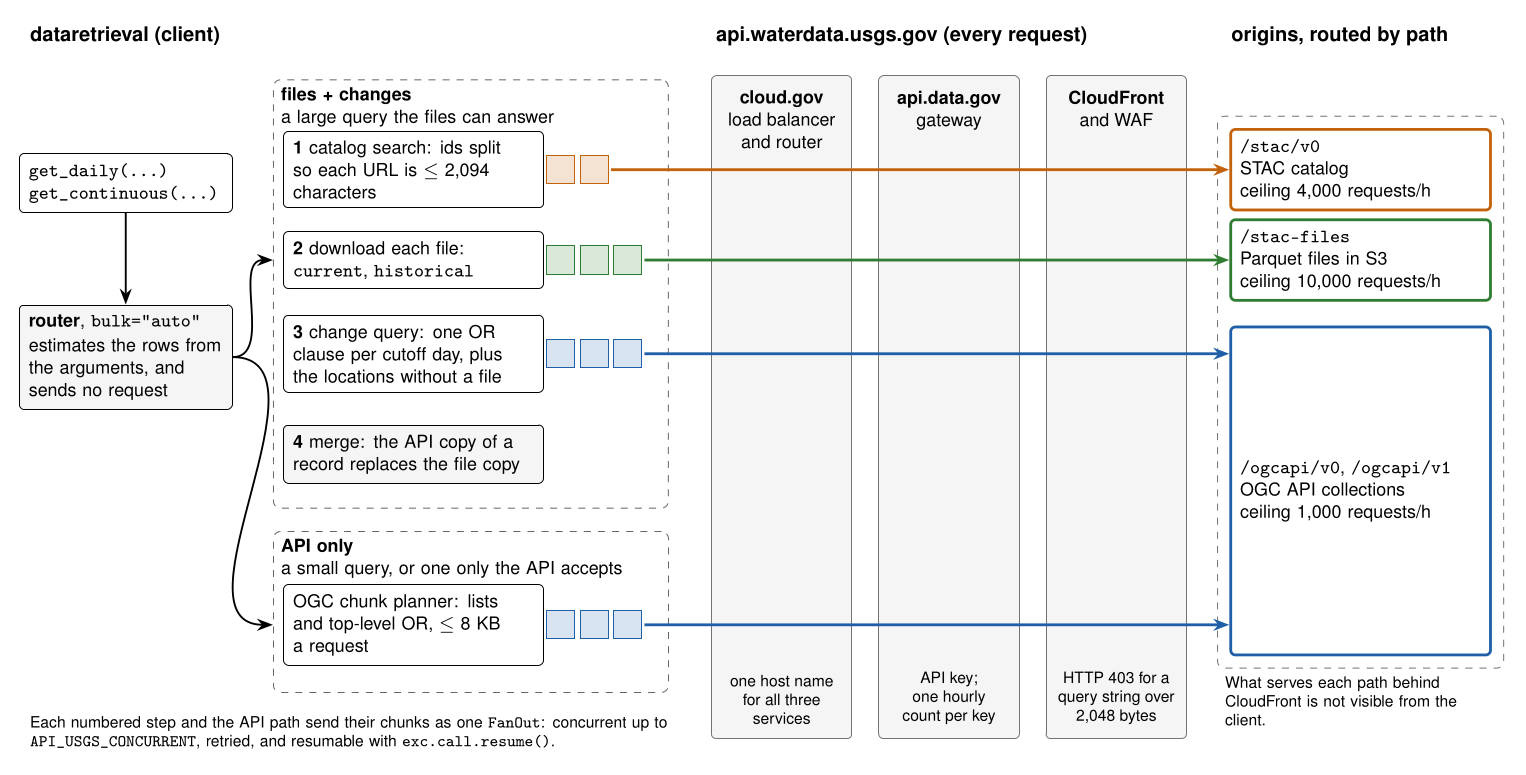
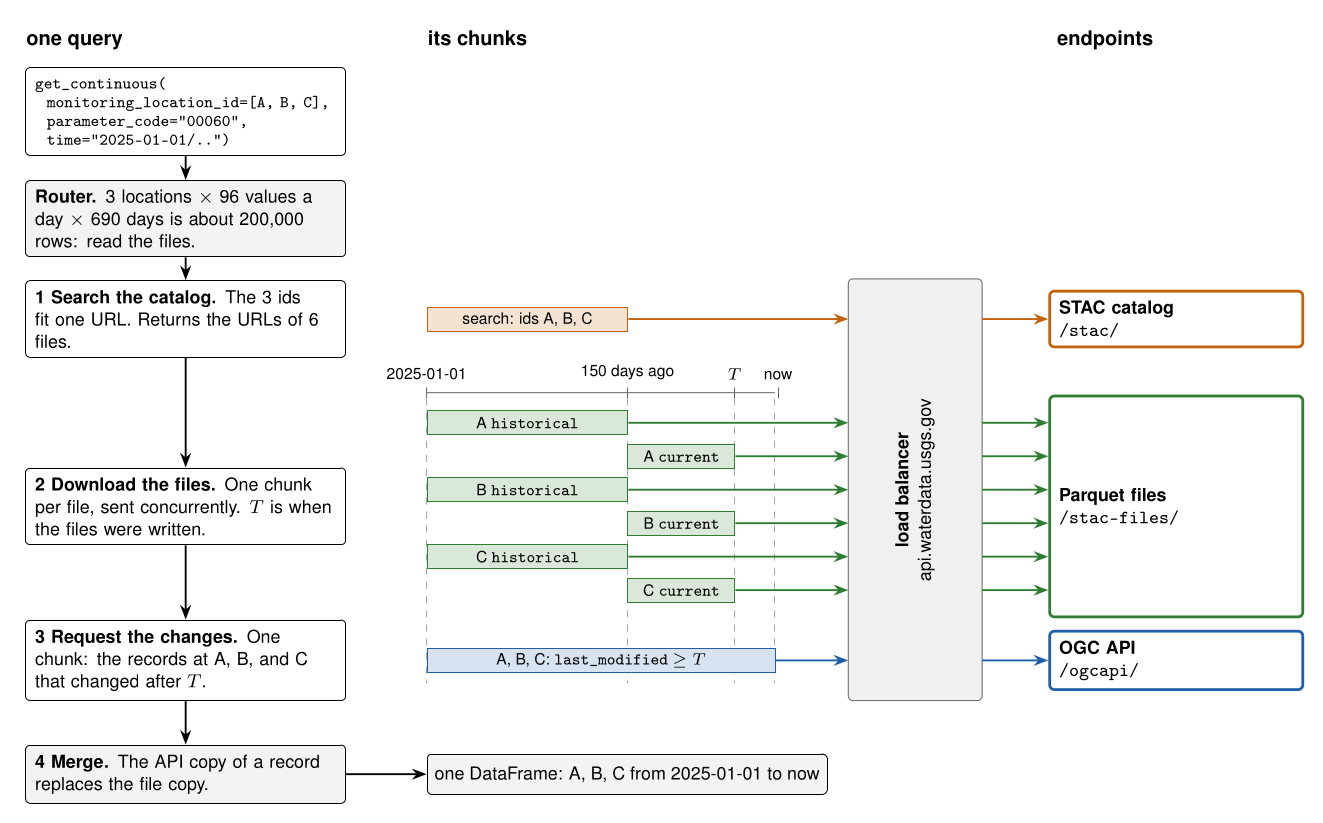
Redraw the figure around one example query

diff --git a/cloud-optimized-architecture.tex b/cloud-optimized-architecture.tex
@@ -1,11 +1,10 @@
-% The cloud-optimized architecture of PR #476: how get_daily and
-% get_continuous divide a query into chunks and route each chunk.
-% The edge hops are what the response headers showed on 2026-11-23.
+% The cloud-optimized architecture of PR #476, for one example query:
+% how get_continuous divides the query into chunks and where each chunk goes.
 \documentclass[tikz,border=8pt]{standalone}
 \usepackage[T1]{fontenc}
 \usepackage[scaled]{helvet}
 \renewcommand{\familydefault}{\sfdefault}
-\usetikzlibrary{arrows.meta,backgrounds,calc,fit}
+\usetikzlibrary{arrows.meta,backgrounds}
 
 \definecolor{api}{HTML}{1F5FA8}
 \definecolor{cat}{HTML}{C2620A}
@@ -16,112 +15,101 @@
 \exhyphenpenalty=10000
 \begin{tikzpicture}[
   font=\sffamily\footnotesize,
-  >={Stealth[length=2.4mm]},
-  box/.style={draw, rounded corners=2pt, align=left, fill=white,
-    inner sep=4pt, text width=#1},
-  box/.default=3.6cm,
-  tile/.style={draw=#1, fill=#1!18, minimum width=4.2mm,
-    minimum height=4.2mm, inner sep=0pt},
-  flow/.style={->, very thick, draw=#1},
-  hop/.style={draw=black!55, fill=black!4, rounded corners=2pt},
-  frame/.style={draw=black!60, dashed, rounded corners=3pt,
-    minimum width=5.9cm, anchor=north west},
-  frametitle/.style={anchor=north west, align=left, text width=5.6cm},
-  title/.style={font=\sffamily\small\bfseries},
+  >={Stealth[length=2.2mm]},
+  stage/.style={draw, rounded corners=2pt, align=left, fill=white,
+    inner sep=4pt, text width=4.5cm},
+  chunk/.style={draw=#1, fill=#1!18, minimum height=3.6mm, inner sep=0pt,
+    font=\sffamily\scriptsize},
+  send/.style={->, thick, draw=#1},
+  endpoint/.style={draw=#1, very thick, rounded corners=2pt, align=left,
+    fill=white, inner sep=4pt, text width=3.5cm},
+  title/.style={font=\sffamily\small\bfseries, anchor=west, text height=1.6ex, text depth=0.4ex},
+  tick/.style={font=\sffamily\scriptsize, anchor=south},
 ]
 
-% ---------------------------------------------------------------- client
-\node[title, anchor=west] at (0, 11.1) {dataretrieval (client)};
+% ----------------------------------------------------------- column titles
+\node[title] at (-0.1, 11.6) {one query};
+\node[title] at (5.9, 11.6) {its chunks};
+\node[title] at (15.3, 11.6) {endpoints};
 
-\node[box=2.9cm] (call) at (1.55, 8.9)
-  {\texttt{get\_daily(...)}\\\texttt{get\_continuous(...)}};
-\node[box=2.9cm, fill=black!4] (router) at (1.55, 6.3)
-  {\textbf{router}, \texttt{bulk="auto"}\\[1pt]
-   estimates the rows from the arguments, and sends no request};
-\draw[->, thick] (call) -- (router);
+% ------------------------------------------------------------ the workflow
+\node[stage, font=\ttfamily\scriptsize] (q) at (2.4, 10.5)
+  {get\_continuous(\\
+   \ \ monitoring\_location\_id=[A, B, C],\\
+   \ \ parameter\_code="00060",\\
+   \ \ time="2025-01-01/..")};
+\node[stage, fill=black!5] (r) at (2.4, 8.9)
+  {\textbf{Router.} 3 locations $\times$ 96 values a day $\times$ 690 days
+   is about 200,000 rows: read the files.};
+\node[stage] (s1) at (2.4, 7.4)
+  {\textbf{1 Search the catalog.} The 3 ids fit one URL. Returns the URLs
+   of 6 files.};
+\node[stage] (s2) at (2.4, 4.6)
+  {\textbf{2 Download the files.} One chunk per file, sent concurrently.
+   $T$ is when the files were written.};
+\node[stage] (s3) at (2.4, 2.3)
+  {\textbf{3 Request the changes.} One chunk: the records at A, B, and C
+   that changed after $T$.};
+\node[stage, fill=black!5] (s4) at (2.4, 0.6)
+  {\textbf{4 Merge.} The API copy of a record replaces the file copy.};
+\foreach \a/\b in {q/r, r/s1, s1/s2, s2/s3, s3/s4}
+  \draw[->, thick] (\a) -- (\b);
 
-% the cloud-optimized path
-\node[frame, minimum height=6.4cm] (filesframe) at (3.75, 10.45) {};
-\node[frametitle] at (filesframe.north west)
-  {\textbf{files + changes}\\a large query the files can answer};
-
-\node[box] (s1) at (5.85, 9.1)
-  {\textbf{1} catalog search: ids split so each URL is $\le$ 2,094
-   characters};
-\node[box] (s2) at (5.85, 7.75)
-  {\textbf{2} download each file:\\\texttt{current}, \texttt{historical}};
-\node[box] (s3) at (5.85, 6.35)
-  {\textbf{3} change query: one OR clause per cutoff day, plus the
-   locations without a file};
-\node[box, fill=black!4] (s4) at (5.85, 4.85)
-  {\textbf{4} merge: the API copy of a record replaces the file copy};
-
-\foreach \i in {0,1} \node[tile=cat] at ($(8.05,9.1)+(\i*0.5,0)$) {};
-\foreach \i in {0,1,2} \node[tile=fil] at ($(8.05,7.75)+(\i*0.5,0)$) {};
-\foreach \i in {0,1,2} \node[tile=api] at ($(8.05,6.35)+(\i*0.5,0)$) {};
-
-% the API path
-\node[frame, minimum height=2.4cm] (apiframe) at (3.75, 3.7) {};
-\node[frametitle] at (apiframe.north west)
-  {\textbf{API only}\\a small query, or one only the API accepts};
-\node[box] (a1) at (5.85, 2.3)
-  {OGC chunk planner: lists and top-level OR, $\le$ 8 KB a request};
-\foreach \i in {0,1,2} \node[tile=api] at ($(8.05,2.3)+(\i*0.5,0)$) {};
-
-\draw[->, thick] (router.east) to[out=0, in=180] (filesframe.west |- s2);
-\draw[->, thick] (router.east) to[out=0, in=180] (apiframe.west |- a1);
-
-\node[align=left, anchor=north west, text width=9.6cm,
-  font=\sffamily\scriptsize] at (0, 1.05)
-  {Each numbered step and the API path send their chunks as one
-   \texttt{FanOut}: concurrent up to \texttt{API\_USGS\_CONCURRENT},
-   retried, and resumable with \texttt{exc.call.resume()}.};
-
-% ------------------------------------------------------------------ edge
-\node[title, anchor=west] at (10.25, 11.1)
-  {api.waterdata.usgs.gov (every request)};
-
+% --------------------------------------------------------------- the chunks
+% time axis: 2025-01-01 at x=6, historical ends at 9, T at 10.6, now at 11.2
+\draw[black!60] (6, 6.3) -- (11.2, 6.3);
+\foreach \x/\t in {6/2025-01-01, 9/150 days ago, 10.6/$T$, 11.25/now} {
+  \draw[black!60] (\x, 6.22) -- (\x, 6.38);
+  \node[tick] at (\x, 6.38) {\t};
+}
 \begin{scope}[on background layer]
-  \draw[hop] (10.3, 0.6) rectangle (12.4, 10.5);
-  \draw[hop] (12.8, 0.6) rectangle (14.9, 10.5);
-  \draw[hop] (15.3, 0.6) rectangle (17.4, 10.5);
+  \foreach \x in {6, 9, 10.6, 11.2}
+    \draw[black!35, dashed] (\x, 6.22) -- (\x, 1.95);
 \end{scope}
-\node[align=center, anchor=north] at (11.35, 10.4)
-  {\textbf{cloud.gov}\\load balancer\\and router};
-\node[align=center, anchor=north] at (13.85, 10.4)
-  {\textbf{api.data.gov}\\gateway};
-\node[align=center, anchor=north] at (16.35, 10.4)
-  {\textbf{CloudFront}\\and WAF};
-\node[align=center, anchor=south, font=\sffamily\scriptsize] at (11.35, 0.7)
-  {one host name\\for all three\\services};
-\node[align=center, anchor=south, font=\sffamily\scriptsize] at (13.85, 0.7)
-  {API key;\\one hourly\\count per key};
-\node[align=center, anchor=south, font=\sffamily\scriptsize] at (16.35, 0.7)
-  {HTTP 403 for a\\query string over\\2,048 bytes};
 
-% --------------------------------------------------------------- origins
-\node[title, anchor=west] at (17.95, 11.1) {origins, routed by path};
+\node[chunk=cat, minimum width=3cm, anchor=west] (c1) at (6, 7.4)
+  {search: ids A, B, C};
 
-\node[box=3.6cm, draw=cat, very thick] (o1) at (20.0, 9.1)
-  {\texttt{/stac/v0}\\STAC catalog\\ceiling 4,000 requests/h};
-\node[box=3.6cm, draw=fil, very thick] (o2) at (20.0, 7.75)
-  {\texttt{/stac-files}\\Parquet files in S3\\ceiling 10,000 requests/h};
-\node[box=3.6cm, draw=api, very thick, minimum height=4.9cm] (o3)
-  at (20.0, 4.3)
-  {\texttt{/ogcapi/v0}, \texttt{/ogcapi/v1}\\OGC API collections\\ceiling
-   1,000 requests/h};
-\node[draw=black!55, dashed, rounded corners=3pt, fit=(o1)(o3),
-  inner sep=5pt] (origins) {};
-\node[align=left, anchor=north west, text width=4.1cm,
-  font=\sffamily\scriptsize] at (origins.south west)
-  {What serves each path behind CloudFront is not visible from the
-   client.};
+\foreach \site/\y in {A/5.85, B/4.85, C/3.85} {
+  \node[chunk=fil, minimum width=3cm, anchor=west] (h\site) at (6, \y)
+    {\site\ \texttt{historical}};
+  \node[chunk=fil, minimum width=1.6cm, anchor=west] (c\site) at (9, \y-0.5)
+    {\site\ \texttt{current}};
+}
 
-% ----------------------------------------------------------------- flows
-\draw[flow=cat] (8.8, 9.1) -- (o1.west);
-\draw[flow=fil] (9.3, 7.75) -- (o2.west);
-\draw[flow=api] (9.3, 6.35) -- (o3.west |- 0, 6.35);
-\draw[flow=api] (9.3, 2.3) -- (o3.west |- 0, 2.3);
+\node[chunk=api, minimum width=5.2cm, anchor=west] (c3) at (6, 2.3)
+  {A, B, C: \texttt{last\_modified} $\ge T$};
+
+\node[draw, rounded corners=2pt, fill=black!5, minimum width=5.2cm,
+  minimum height=6mm, anchor=west] (df) at (6, 0.6)
+  {one DataFrame: A, B, C from 2025-01-01 to now};
+\draw[->, thick] (s4) -- (df);
+
+% -------------------------------------------------------- the load balancer
+\draw[draw=black!60, fill=black!6, rounded corners=2pt]
+  (12.3, 1.7) rectangle (14.3, 8.0);
+\node[align=center, rotate=90] at (13.3, 4.85)
+  {\textbf{load balancer}\\api.waterdata.usgs.gov};
+
+% ---------------------------------------------------------------- endpoints
+\node[endpoint=cat] (e1) at (17.2, 7.4)
+  {\textbf{STAC catalog}\\\texttt{/stac/}};
+\node[endpoint=fil, minimum height=3.3cm] (e2) at (17.2, 4.6)
+  {\textbf{Parquet files}\\\texttt{/stac-files/}};
+\node[endpoint=api] (e3) at (17.2, 2.3)
+  {\textbf{OGC API}\\\texttt{/ogcapi/}};
+
+% -------------------------------------------------------------------- sends
+\draw[send=cat] (c1.east) -- (12.3, 7.4);
+\draw[send=cat] (14.3, 7.4) -- (e1.west);
+\foreach \site/\y in {A/5.85, B/4.85, C/3.85} {
+  \draw[send=fil] (h\site.east) -- (12.3, \y);
+  \draw[send=fil] (14.3, \y) -- (e2.west |- 0, \y);
+  \draw[send=fil] (c\site.east) -- (12.3, \y-0.5);
+  \draw[send=fil] (14.3, \y-0.5) -- (e2.west |- 0, \y-0.5);
+}
+\draw[send=api] (c3.east) -- (12.3, 2.3);
+\draw[send=api] (14.3, 2.3) -- (e3.west);
 
 \end{tikzpicture}
 \end{document}
